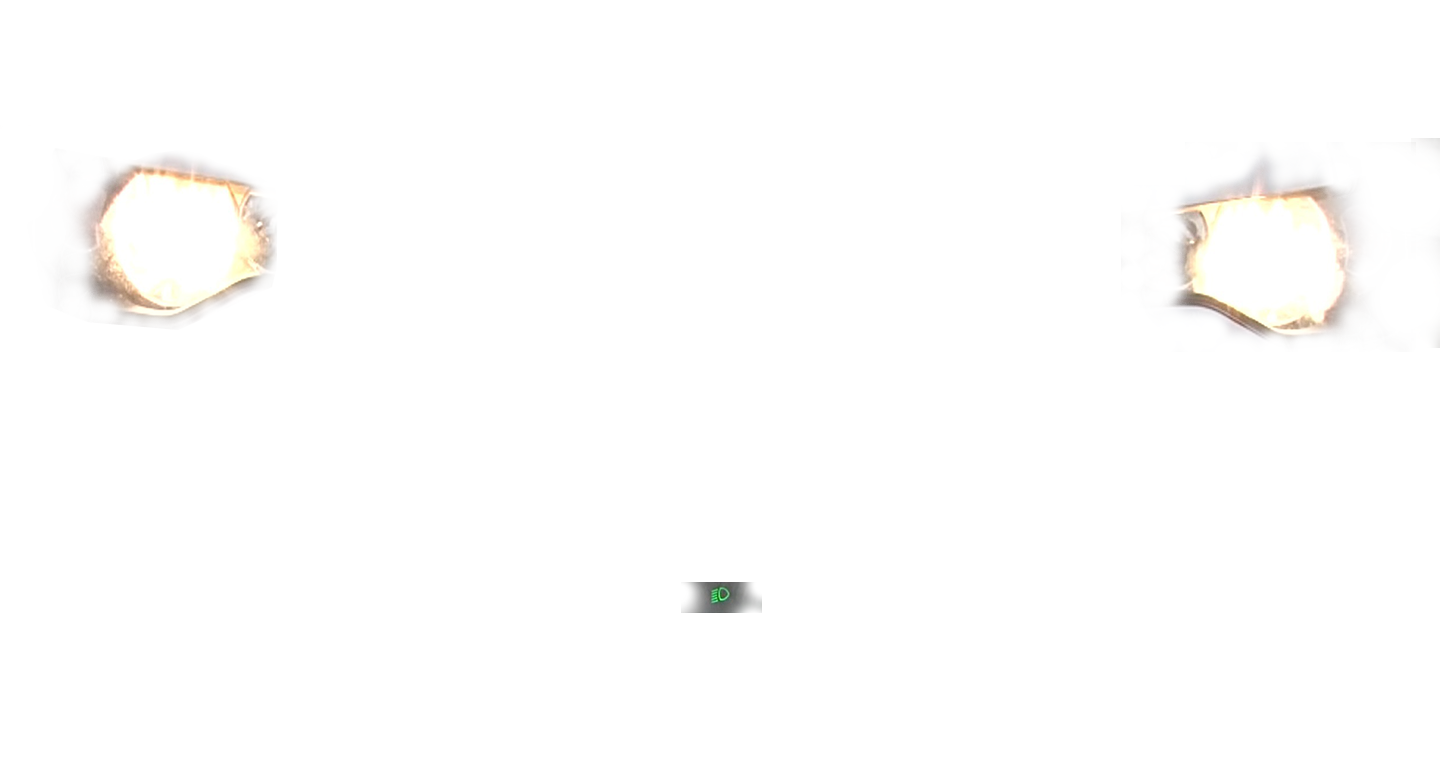
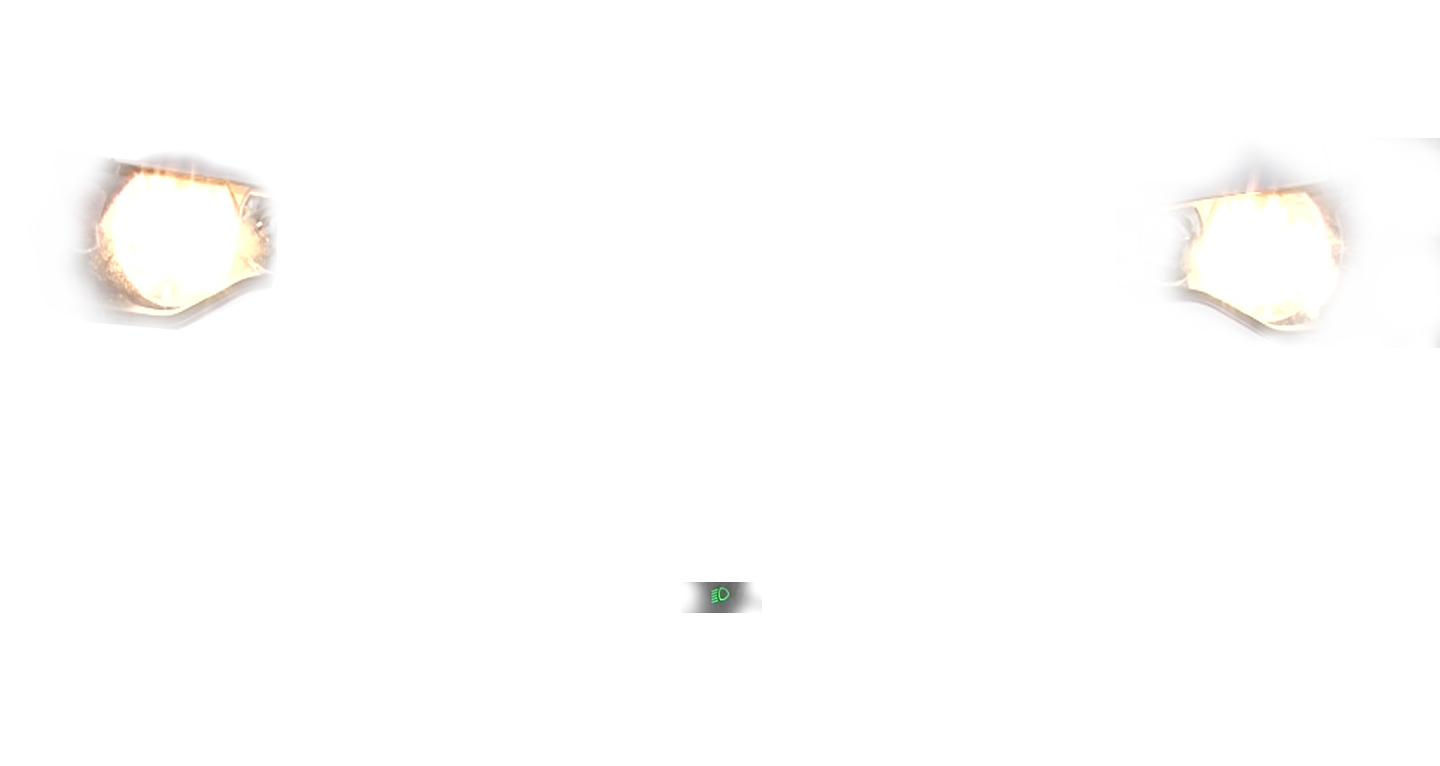
addddddd

diff --git a/public/lights/style.css b/public/lights/style.css
@@ -1,10 +1,10 @@
 body{ text-align: center; background: #000;}
-.cars{ margin: 0 auto; position: relative; height: 726px; background: url(/images/default.png) center 0 no-repeat; background-size:1366px 726px;}
+.cars{ margin: 0 auto; position: relative; height: 545px; background: url(/images/default.png) center 0 no-repeat; background-size:1024px auto;}
 .lights,
-.signal{height: 726px; width: 100%; background-size: 1366px 726px; background-position: center 0; background-repeat: no-repeat;}
+.signal{height: 545px; width: 100%; background-size: 1024px auto; background-position: center 0; background-repeat: no-repeat;}
 .signal{position: absolute; z-index: 2; top: 0; left: 0;}
 
-.headlight{ background-image: url(/images/headlight.png);-webkit-animation: flashing .5s ease 0 1 alternate;}
+.headlight{background-image: url(/images/headlight.png);-webkit-animation: flashing .5s ease 0 1 alternate;}
 .highlight{ background-image: url(/images/highlight.png);-webkit-animation: flashing .5s ease 0 1 alternate;}
 .highlight2{ background-image: url(/images/highlight.png);-webkit-animation: flashing .5s ease 0 2 alternate;}
 .widthlamp{ background-image: url(/images/widthlamp.png); -webkit-animation: flashing .5s ease 0 1 alternate;}

diff --git a/public/lights/lights.js b/public/lights/lights.js
@@ -32,13 +32,13 @@ $(function() {
 
 
 		widthlamp: function() {
-			$lights.removeClass('headlight highLight');
+			$lights.removeClass('headlight highlight');
 
 			$lights[$lights.hasClass('widthlamp') ? 'removeClass' : 'addClass']('widthlamp');
 		},
 
 		closelamp: function(){
-			$lights.removeClass('headlight highLight widthlamp');
+			$lights.removeClass('headlight highlight widthlamp');
 		},
 
 		left: function() {
@@ -71,7 +71,7 @@ $(function() {
 		
 		clean: function(){
 			this.reset();
-			$lights.removeClass('widthlamp headlight highlight');
+			this.closelamp();
 		}
 	};
 

diff --git a/public/index.html b/public/index.html
@@ -26,8 +26,6 @@
     <div class="qrcode"></div>
 </div>
 <script src="/vendor/jquery-2.1.1.js"></script>
-<script src="/vendor/underscore.js"></script>
-<script src="/vendor/backbone.js"></script>
 <script src="/vendor/qrcode.min.js"></script>
 <script src="/socket.io/socket.io.js"></script>
 <script src="/lights/lights.js"></script>

diff --git a/public/javascripts/main.js b/public/javascripts/main.js
@@ -330,7 +330,7 @@ $('.btns1 .btn').click(function (e) {
     var icons = me.siblings().find('i');
     var active = me.find('i').hasClass('active');
 
-    if(active && val === 'widthlamp' && val === 'closelamp'){
+    if(active && (val === 'widthlamp' || val === 'closelamp')){
         return false;
     }
 

diff --git a/public/javascripts/screen.js b/public/javascripts/screen.js
@@ -16,5 +16,6 @@ socket.on('connect success', function () {
 });
 
 socket.on('action', function (data) {
+	//console.log(data);
     Lights[data]();
 });
